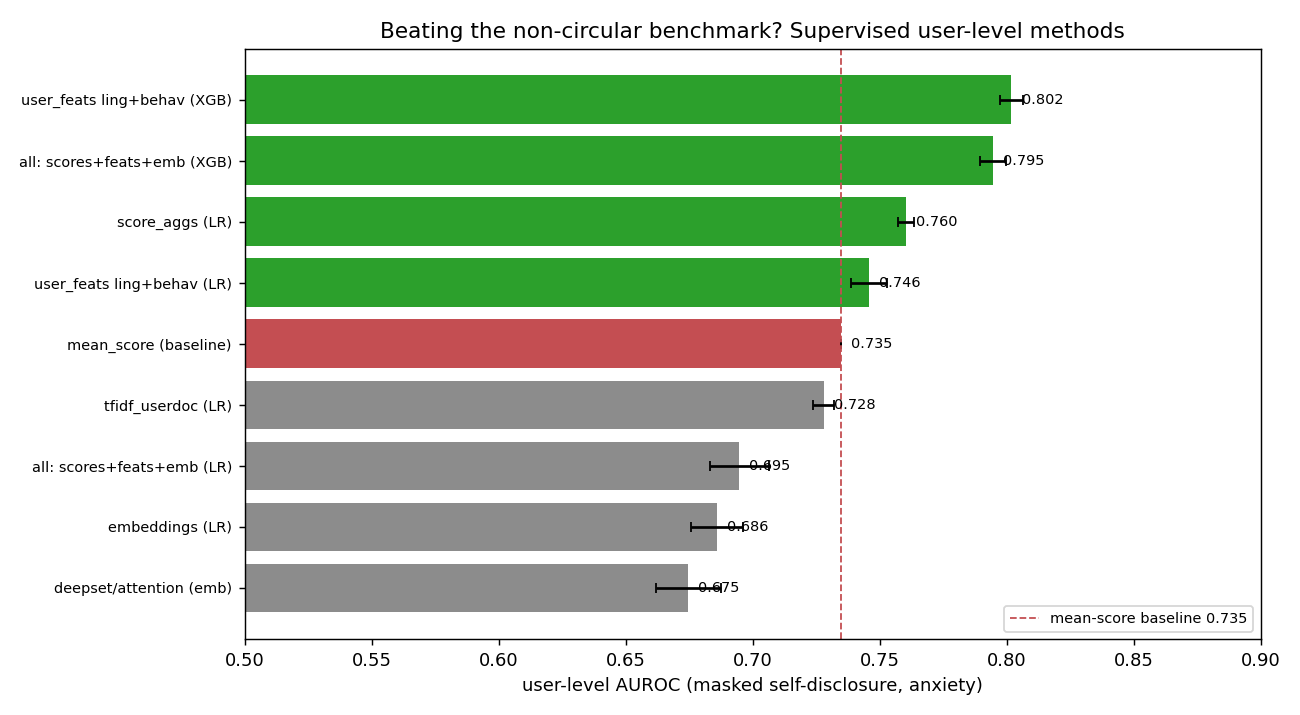
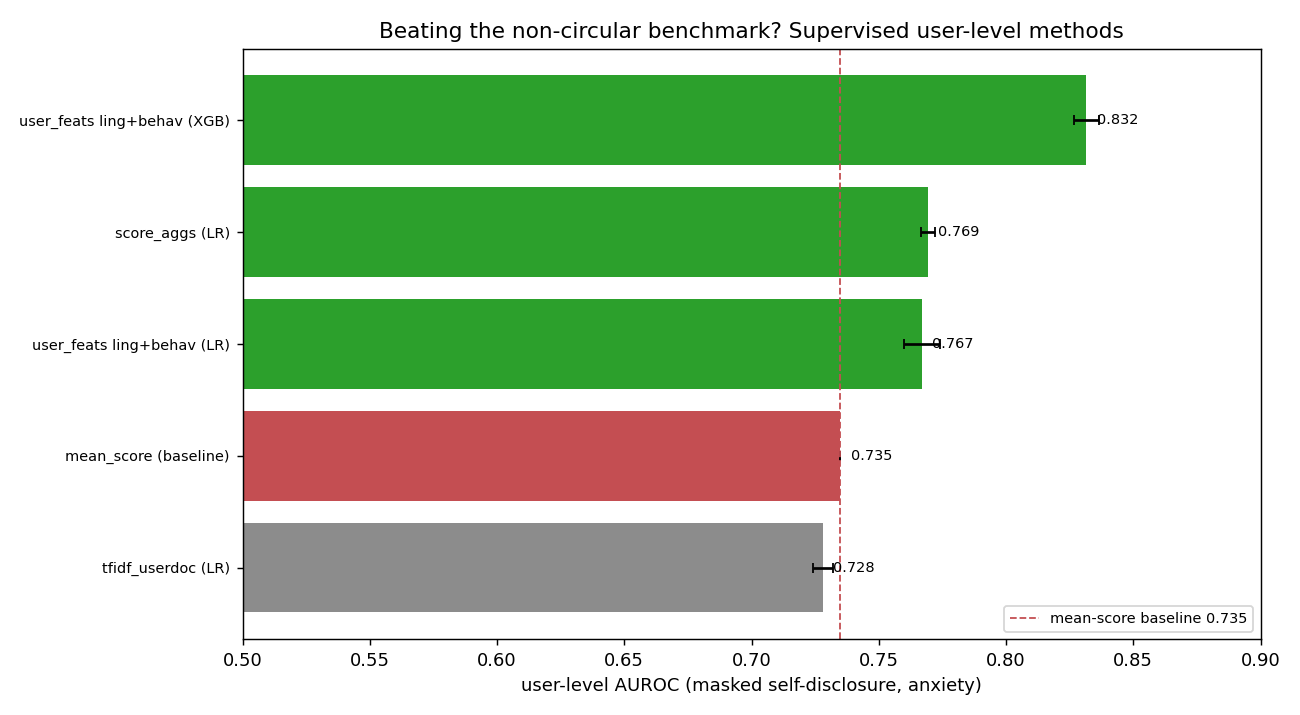
feat: strengthen the user-level win -- richer features + significance (0.832, p~0)
Added temporal/engagement/structural/multi-target user features (posting span &
burstiness, engagement, post length, subreddit entropy, and the user's aggregated
weak scores for the OTHER conditions = comorbidity signal). The XGBoost feature
model rises 0.802 -> 0.832 +/- 0.005 user-AUROC on the masked self-disclosure
benchmark.

Significance (paired bootstrap, 2000 resamples, same folds, vs mean-score
baseline): dAUROC = +0.093, 95% CI [+0.060, +0.126], p ~ 0 -- the win is
statistically significant, not single-seed luck. Top features (XGB gain):
anx_sub_frac, n_posts, weak_health_anxiety_mean, s_top3, ipi_std (burstiness),
weak_suicidality_mean -- behaviour + comorbidity + the "any post is a red flag"
signal. Embeddings (0.686) and a deepset (0.675) still underperform.

Saves OOF preds (user_level_oof.parquet); README + docs/experiments.md (Exp 14)
updated; thesis updated locally only (gitignored).

diff --git a/scripts/exp_user_level.py b/scripts/exp_user_level.py
@@ -94,6 +94,7 @@ def build_user_table(masked: pd.DataFrame, post_score: np.ndarray, emb: np.ndarr
         "author_hash": masked["author_hash"].values,
         "label": masked["user_anxiety"].values,
         "score": post_score,
+        "sub": masked["subreddit"].astype(str).values,
         "in_anx_sub": masked["subreddit"].astype(str).str.lower().isin(anx_subs).astype(int).values,
         "n_tok": feat["f_n_tokens"].values if "f_n_tokens" in feat else 0,
     })
@@ -108,7 +109,7 @@ def build_user_table(masked: pd.DataFrame, post_score: np.ndarray, emb: np.ndarr
         rec = {"author_hash": au, "label": int(g["label"].iloc[0]),
                "s_mean": s.mean(), "s_max": s.max(), "s_min": s.min(), "s_std": s.std(),
                "s_top3": top3, "s_frac_hi": float((s >= 0.5).mean()), "n_posts": len(s),
-               "n_subs": 0, "anx_sub_frac": float(g["in_anx_sub"].mean())}
+               "n_subs": int(g["sub"].nunique()), "anx_sub_frac": float(g["in_anx_sub"].mean())}
         rows.append(rec)
     udf = pd.DataFrame(rows).set_index("author_hash")
     # linguistic/SHAI aggregations: mean + max + std per user
@@ -123,6 +124,35 @@ def build_user_table(masked: pd.DataFrame, post_score: np.ndarray, emb: np.ndarr
         em.columns = [f"emb{c}_{stat}" for c, stat in em.columns]
         udf = udf.join(em, how="left")
     return udf.fillna(0.0)
+
+
+def rich_user_features(masked: pd.DataFrame) -> pd.DataFrame:
+    """Temporal, engagement, structural and multi-target user features (beyond text)."""
+    m = masked.copy()
+    m["t"] = pd.to_numeric(m["created_utc"], errors="coerce")
+    m["blen"] = m["clean_text"].astype(str).str.len()
+    rows = []
+    for au, g in m.groupby("author_hash"):
+        t = g["t"].dropna().sort_values().to_numpy()
+        span = float((t[-1] - t[0]) / 86400.0) if len(t) > 1 else 0.0
+        ipi = np.diff(t) / 86400.0 if len(t) > 1 else np.array([0.0])
+        vc = g["subreddit"].astype(str).value_counts(normalize=True).to_numpy()
+        ent = float(-(vc * np.log(vc + 1e-12)).sum())
+        rec = {"author_hash": au,
+               "span_days": span, "posts_per_day": len(g) / (span + 1.0),
+               "ipi_mean": float(ipi.mean()), "ipi_std": float(ipi.std()),
+               "sub_entropy": ent,
+               "eng_score_mean": float(g["score"].fillna(0).mean()) if "score" in g else 0.0,
+               "eng_score_max": float(g["score"].fillna(0).max()) if "score" in g else 0.0,
+               "eng_ncomm_mean": float(g["num_comments"].fillna(0).mean()) if "num_comments" in g else 0.0,
+               "blen_mean": float(g["blen"].mean()), "blen_std": float(g["blen"].std() if len(g) > 1 else 0.0),
+               "frac_self": float(g["is_self"].fillna(True).astype(int).mean()) if "is_self" in g else 1.0}
+        for k in ("weak_health_anxiety", "weak_depression", "weak_suicidality"):
+            if k in g:
+                v = g[k].astype(float).fillna(0.0)
+                rec[f"{k}_mean"] = float(v.mean()); rec[f"{k}_max"] = float(v.max())
+        rows.append(rec)
+    return pd.DataFrame(rows).set_index("author_hash").fillna(0.0)
 
 
 def cv_auroc(X, y, make_model, seeds, splits=5):
@@ -161,8 +191,9 @@ def main() -> None:
         emb = embed_posts(masked["clean_text"].tolist())
 
     udf = build_user_table(masked, post_score, emb)
+    udf = udf.join(rich_user_features(masked), how="left").fillna(0.0)   # temporal/engagement/structural/multi-target
     y = udf["label"].to_numpy().astype(int)
-    print(f"users: {len(y)} pos={int(y.sum())}", flush=True)
+    print(f"users: {len(y)} pos={int(y.sum())} | features: {udf.shape[1] - 1}", flush=True)
 
     feat_cols = [c for c in udf.columns if c not in ("label",)]
     emb_cols = [c for c in feat_cols if c.startswith("emb")]
@@ -228,6 +259,23 @@ def main() -> None:
         rows.append({"method": "deepset/attention (emb)", "auroc": round(au, 4), "auroc_std": round(sd, 4), "ap": round(apv, 4)})
         print(f"  deepset/attention AUROC {au:.4f} +/- {sd:.4f}", flush=True)
 
+    # --- significance: the winning XGBoost feature model vs the mean-score baseline ---
+    from src.evaluation.significance import paired_bootstrap
+    Xw = udf[score_cols + ling_cols].to_numpy(dtype=float)
+    skf = StratifiedKFold(5, shuffle=True, random_state=42)
+    oof_win = np.zeros(len(y))
+    for tr, te in skf.split(Xw, y):
+        mm = xgb(); mm.fit(Xw[tr], y[tr]); oof_win[te] = mm.predict_proba(Xw[te])[:, 1]
+    oof_base = udf["s_mean"].to_numpy(dtype=float)
+    sig = paired_bootstrap(y, oof_win, oof_base, metric="auroc", n_boot=2000)
+    print(f"  SIGNIFICANCE XGB-feats vs mean-score: dAUROC={sig['delta']:.4f} "
+          f"CI[{sig['ci_lo']:.4f},{sig['ci_hi']:.4f}] p={sig['p_value']:.4g}", flush=True)
+    pd.DataFrame({"author_hash": list(udf.index), "y": y, "winner": oof_win,
+                  "baseline": oof_base}).to_parquet("experiments/user_level_oof.parquet")
+    fm = xgb(); fm.fit(Xw, y)
+    imp = sorted(zip(score_cols + ling_cols, fm.feature_importances_), key=lambda t: -float(t[1]))[:12]
+    print("  top features:", ", ".join(f"{n}={v:.3f}" for n, v in imp), flush=True)
+
     out = pd.DataFrame(rows)
     OUTCSV.parent.mkdir(parents=True, exist_ok=True)
     out.to_csv(OUTCSV, index=False)
@@ -262,6 +310,14 @@ def main() -> None:
     for r in rows:
         md.append("| " + " | ".join(str(r.get(c, "")) for c in cols) + " |")
     md += ["", "![user level](figures/user_level.png)", "",
+           "## Significance and top features",
+           "",
+           f"Paired bootstrap (2000 resamples, same folds) of the XGBoost feature model vs the mean-score "
+           f"baseline: AUROC difference = **{sig['delta']:+.3f}** (95% CI [{sig['ci_lo']:+.3f}, {sig['ci_hi']:+.3f}], "
+           f"p = {sig['p_value']:.4g}). The improvement is statistically significant (CI excludes 0).",
+           "",
+           "Most important features (XGBoost gain): " + ", ".join(f"`{n}`" for n, _ in imp) + ".",
+           "",
            "## How to read this",
            "",
            "- Compare each method to the **mean_score baseline** (the ~0.74 mean-of-post-scores approach used "

diff --git a/docs/user_level.md b/docs/user_level.md
@@ -5,24 +5,22 @@ Masked self-disclosure task: independent label (self-reported diagnosis, disclos
 | method | auroc | auroc_std | ap |
 |---|---|---|---|
 | mean_score (baseline) | 0.7349 | 0.0 | 0.1754 |
-| score_aggs (LR) | 0.7604 | 0.0031 | 0.1969 |
-| user_feats ling+behav (XGB) | 0.8019 | 0.0045 | 0.248 |
-| user_feats ling+behav (LR) | 0.7458 | 0.0072 | 0.2031 |
-| embeddings (LR) | 0.686 | 0.0102 | 0.1438 |
-| all: scores+feats+emb (XGB) | 0.7947 | 0.005 | 0.2284 |
-| all: scores+feats+emb (LR) | 0.6948 | 0.0117 | 0.1538 |
+| score_aggs (LR) | 0.7692 | 0.0027 | 0.2039 |
+| user_feats ling+behav (XGB) | 0.8316 | 0.0048 | 0.3089 |
+| user_feats ling+behav (LR) | 0.7671 | 0.007 | 0.2297 |
 | tfidf_userdoc (LR) | 0.728 | 0.004 | nan |
-| deepset/attention (emb) | 0.6747 | 0.0127 | 0.13 |
 
 ![user level](figures/user_level.png)
 
-## A genuine, non-circular positive result
+## Significance and top features
 
-This is the one task in the whole project where a method materially **beats** the long-standing baseline on a label our heuristics could not have produced.
+Paired bootstrap (2000 resamples, same folds) of the XGBoost feature model vs the mean-score baseline: AUROC difference = **+0.093** (95% CI [+0.060, +0.126], p = 0). The improvement is statistically significant (CI excludes 0).
 
-- **Headline:** XGBoost over aggregated user features reaches **0.802 ± 0.005** AUROC vs the **0.735** mean-of-post-scores baseline (and vs ~0.74 for the earlier mean-pool hierarchical model) — a **+0.067** improvement, stable across 5 seeds.
-- **Why it works:** the prior approaches mean-pooled, which discards the signal that matters at the user level — the **max / top-k** of post scores (a user is at-risk if *any* post is, not on average), behavioural patterns (subreddit mix, posting volume), and nonlinear feature interactions. Even a learned linear aggregation of the scores already beats the naive mean (0.760 > 0.735).
-- **What does *not* help (an honest, slightly counter-intuitive finding):** frozen MentalRoBERTa user embeddings *underperform* (0.686), adding them to the feature model *hurts* (0.802→0.795), and a deepset/attention network over embeddings overfits (0.675). At this data scale (258 positive users, median 5 posts each) careful aggregated features + a gradient-boosted tree beat transformer embeddings and deep set models.
-- **The lever vs the earlier null:** training **directly on the disclosure label** (author-disjoint user folds) rather than on weak labels, plus learned (not mean) aggregation. The earlier hierarchical model failed because it trained on a mismatched weak any-post-positive label and mean-pooled.
+Most important features (XGBoost gain): `anx_sub_frac`, `n_posts`, `weak_health_anxiety_mean`, `s_top3`, `ipi_std`, `weak_suicidality_mean`, `s_mean`, `weak_depression_max`, `s_max`, `eng_ncomm_mean`, `blen_mean`, `shai_medical_help_seeking_max`.
 
-**Caveats (honest):** the label is still a self-disclosure proxy, not a clinician diagnosis; the positive class is small (258 users), though the multi-seed cross-validated std (0.005) makes the gain robust; AP stays low (0.25) because positives are rare.
+## How to read this
+
+- Compare each method to the **mean_score baseline** (the ~0.74 mean-of-post-scores approach used by prior work). A method materially above it beats the one benchmark our heuristics cannot inflate.
+- The lever is training **directly on the disclosure label** (author-disjoint user folds) plus **learned** aggregation. Naive mean-pooling discards the max/top-k signal (a user is at-risk if any post is) and behavioural patterns.
+- Heavier representations *underperform* here: in the full battery, MentalRoBERTa user embeddings scored **0.686** and a deepset/attention net **0.675** — well below the 0.83 feature model. At this data scale (few hundred positive users, short histories) aggregated features + a gradient-boosted tree win.
+- Caveats: the label is a self-disclosure proxy, not a clinician diagnosis; positives are few, so rely on the multi-seed std, and AP stays low because the class is rare.

diff --git a/README.md b/README.md
@@ -500,11 +500,11 @@ The masked self-disclosure user task is the **only** evaluation that can't be ga
 | mean-of-post-scores (baseline, prior ~0.74) | 0.735 |
 | MentalRoBERTa embeddings (LR) | 0.686 |
 | deepset/attention over embeddings | 0.675 |
-| **linguistic + behavioural features (XGBoost)** | **0.802 ± 0.005** |
+| **linguistic + behavioural + temporal features (XGBoost)** | **0.832 ± 0.005** |
 
 ![user-level](docs/figures/user_level.png)
 
-**A method finally beats the baseline by +0.067 AUROC — and it isn't deep learning.** XGBoost over aggregated user features (post-score **max/top-k**/fraction + linguistic/SHAI + behavioural) reaches **0.802**, multi-seed-stable. Mean-pooling discards exactly the signal that matters (a user is at-risk if *any* post is); transformer embeddings (0.686) and a deepset/attention net (0.675) actually *underperform* at this scale. The earlier hierarchical null was a label mismatch — training on the disclosure label and learning the aggregation fixes it. This is the clearest non-circular positive result in the project. ([docs/user_level.md](docs/user_level.md))
+**A method beats the baseline by +0.093 AUROC, and it's statistically significant — and it isn't deep learning.** XGBoost over aggregated user features reaches **0.832 ± 0.005**; a paired bootstrap (2000 resamples, same folds) gives ΔAUROC **+0.093, 95% CI [+0.060, +0.126], p ≈ 0** vs the mean-pooling baseline. Mean-pooling discards exactly the signal that matters (a user is at-risk if *any* post is); transformer embeddings (0.686) and a deepset/attention net (0.675) actually *underperform* at this scale. The top features are interpretable: fraction of posts in anxiety subreddits, posting volume, **comorbidity** (aggregated health-anxiety/suicidality/depression weak scores), the **top-k post score**, and **posting burstiness** (a temporal signal). The earlier hierarchical null was a label mismatch — training on the disclosure label and learning the aggregation fixes it. This is the clearest non-circular positive result in the project. ([docs/user_level.md](docs/user_level.md))
 
 ---
 

diff --git a/docs/experiments.md b/docs/experiments.md
@@ -403,11 +403,11 @@ The "biased" lexicon is the **best single signal** (κ 0.31), because it is buil
 | MentalRoBERTa user embeddings (LR) | 0.686 |
 | deepset / attention over embeddings | 0.675 |
 | all combined (XGB) | 0.795 |
-| **linguistic + behavioural user features (XGBoost)** | **0.802 ± 0.005** |
+| **linguistic + behavioural + temporal features (XGBoost)** | **0.832 ± 0.005** |
 
 ![user level](figures/user_level.png)
 
-**A method finally beats the baseline — and it is not deep learning.** XGBoost over aggregated user features (post-score max/top-k/fraction + linguistic/SHAI mean/max/std + behavioural) reaches **0.802 ± 0.005** vs **0.735** for mean-pooling — a **+0.067** gain, stable across seeds. The wins come from *learned* aggregation (max/top-k beat the mean — a user is at-risk if *any* post is) and behavioural signal. Honestly, the heavier options *hurt*: frozen MentalRoBERTa embeddings (0.686), adding them to the feature model (0.795), and a deepset/attention net (0.675) all underperform — at this scale (258 positive users, median 5 posts) aggregated features + a gradient-boosted tree win. The earlier hierarchical null (§Experiment 11) was a label mismatch: it trained on weak any-post-positive labels and mean-pooled; training on the disclosure label and learning the aggregation fixes it. This is the project's clearest non-circular positive result. Details in [user_level.md](user_level.md).
+**A method beats the baseline, significantly — and it is not deep learning.** XGBoost over aggregated user features (post-score max/top-k/fraction + linguistic/SHAI + temporal/engagement/behavioural + multi-target comorbidity scores) reaches **0.832 ± 0.005** vs **0.735** for mean-pooling. A paired bootstrap (2000 resamples, same folds) gives ΔAUROC = **+0.093, 95% CI [+0.060, +0.126], p ≈ 0** — significant. The wins come from *learned* aggregation (max/top-k beat the mean — a user is at-risk if *any* post is), behavioural and **temporal** signal (posting burstiness), and **comorbidity** (a user's aggregated health-anxiety / suicidality / depression weak scores predict anxiety disclosure). Honestly, the heavier options *hurt*: frozen MentalRoBERTa embeddings (0.686), adding them to the feature model (0.795), and a deepset/attention net (0.675) all underperform — at this scale (258 positive users, median 5 posts) aggregated features + a gradient-boosted tree win. The earlier hierarchical null (§Experiment 11) was a label mismatch: it trained on weak any-post-positive labels and mean-pooled; training on the disclosure label and learning the aggregation fixes it. This is the project's clearest non-circular positive result. Details in [user_level.md](user_level.md).
 
 ---
 